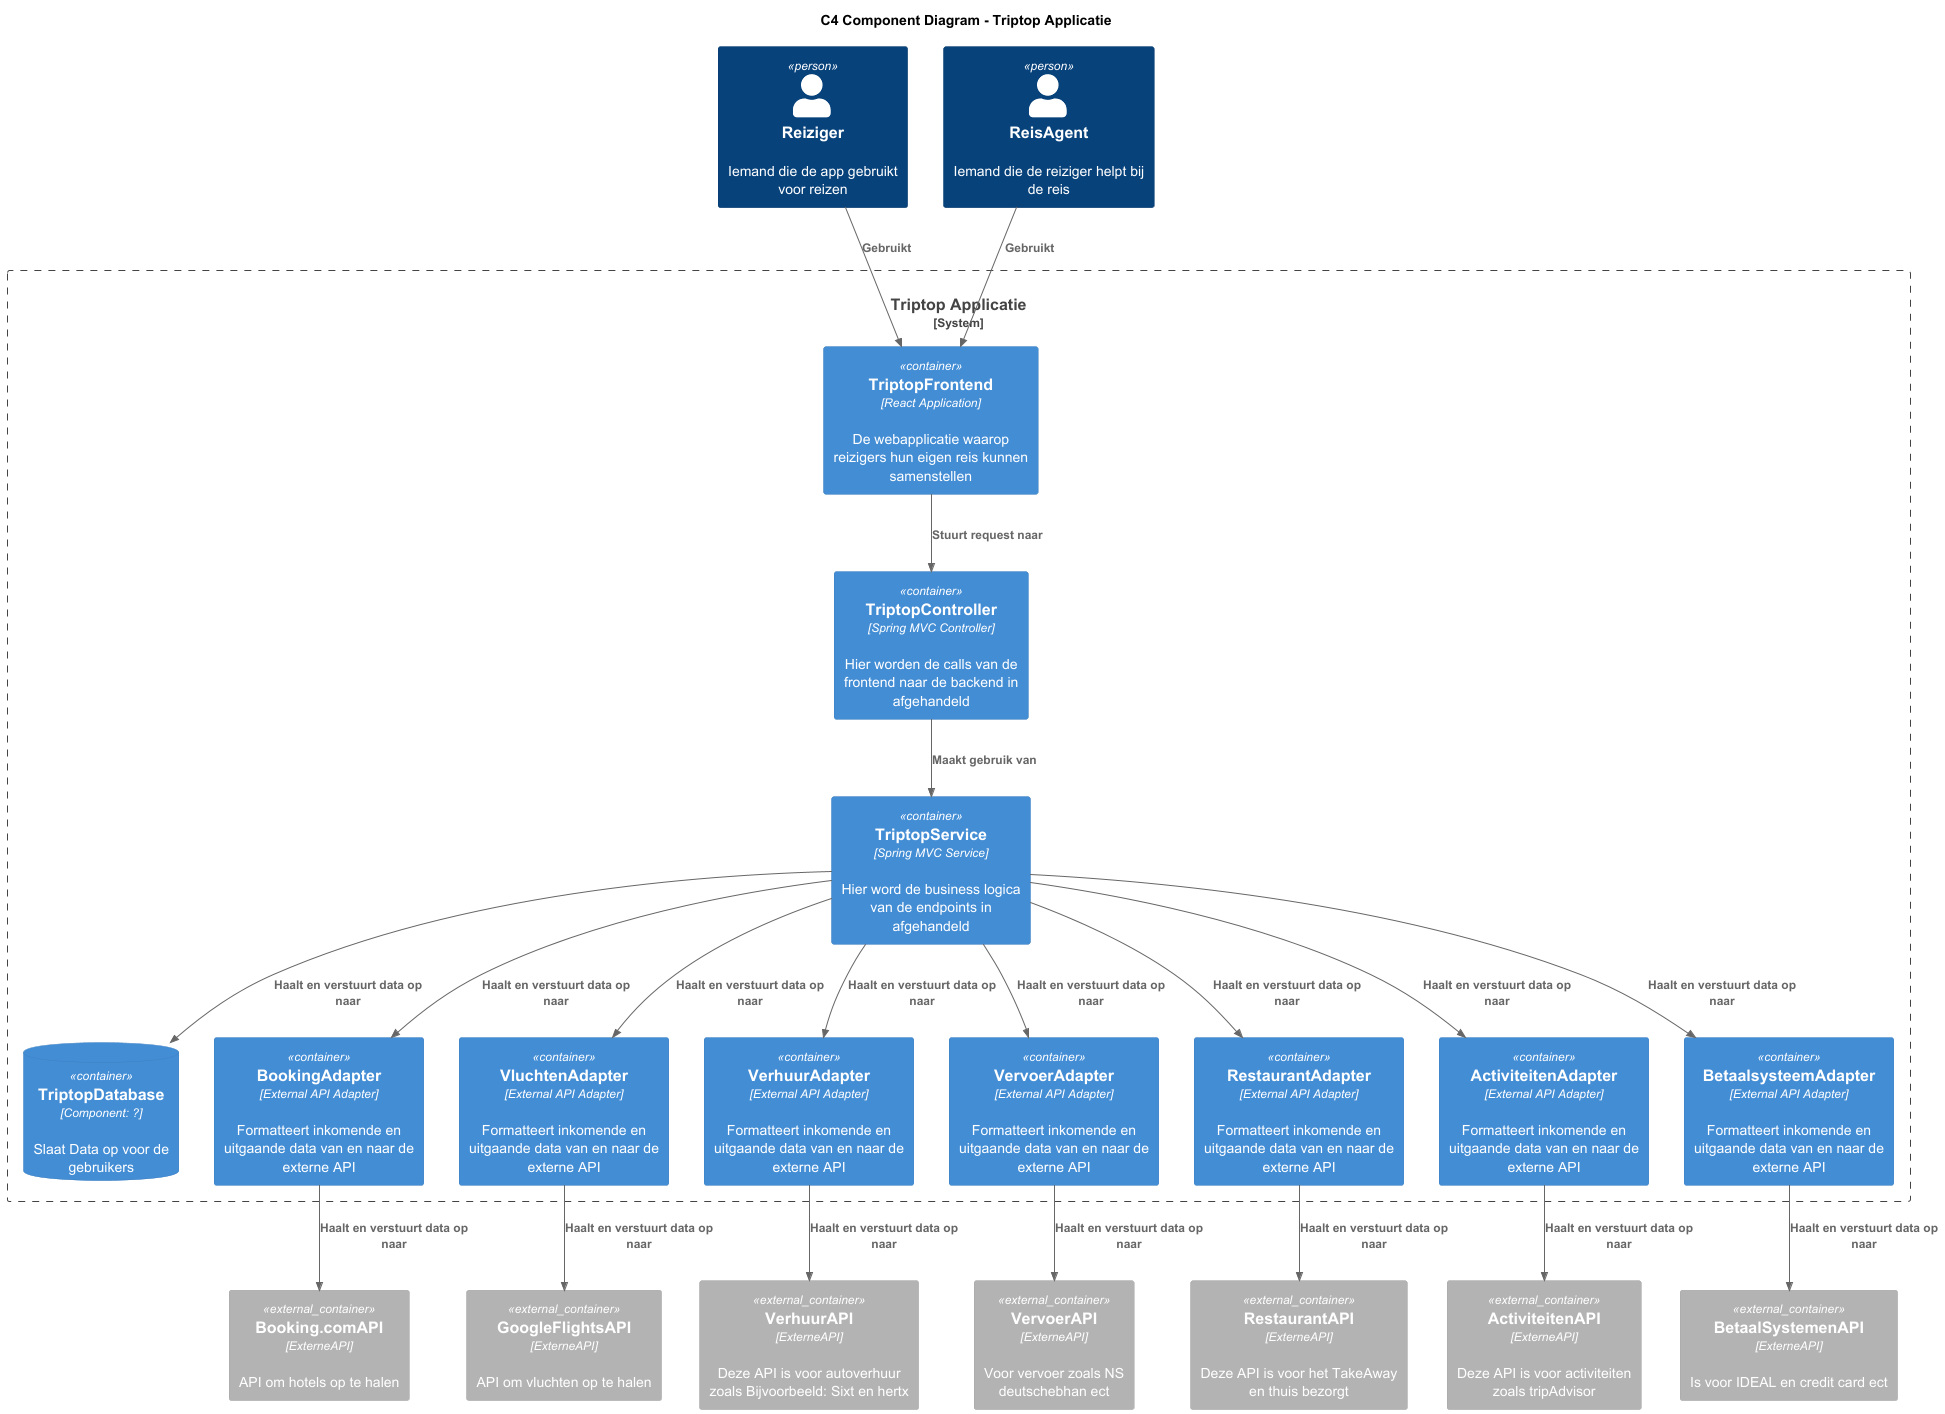
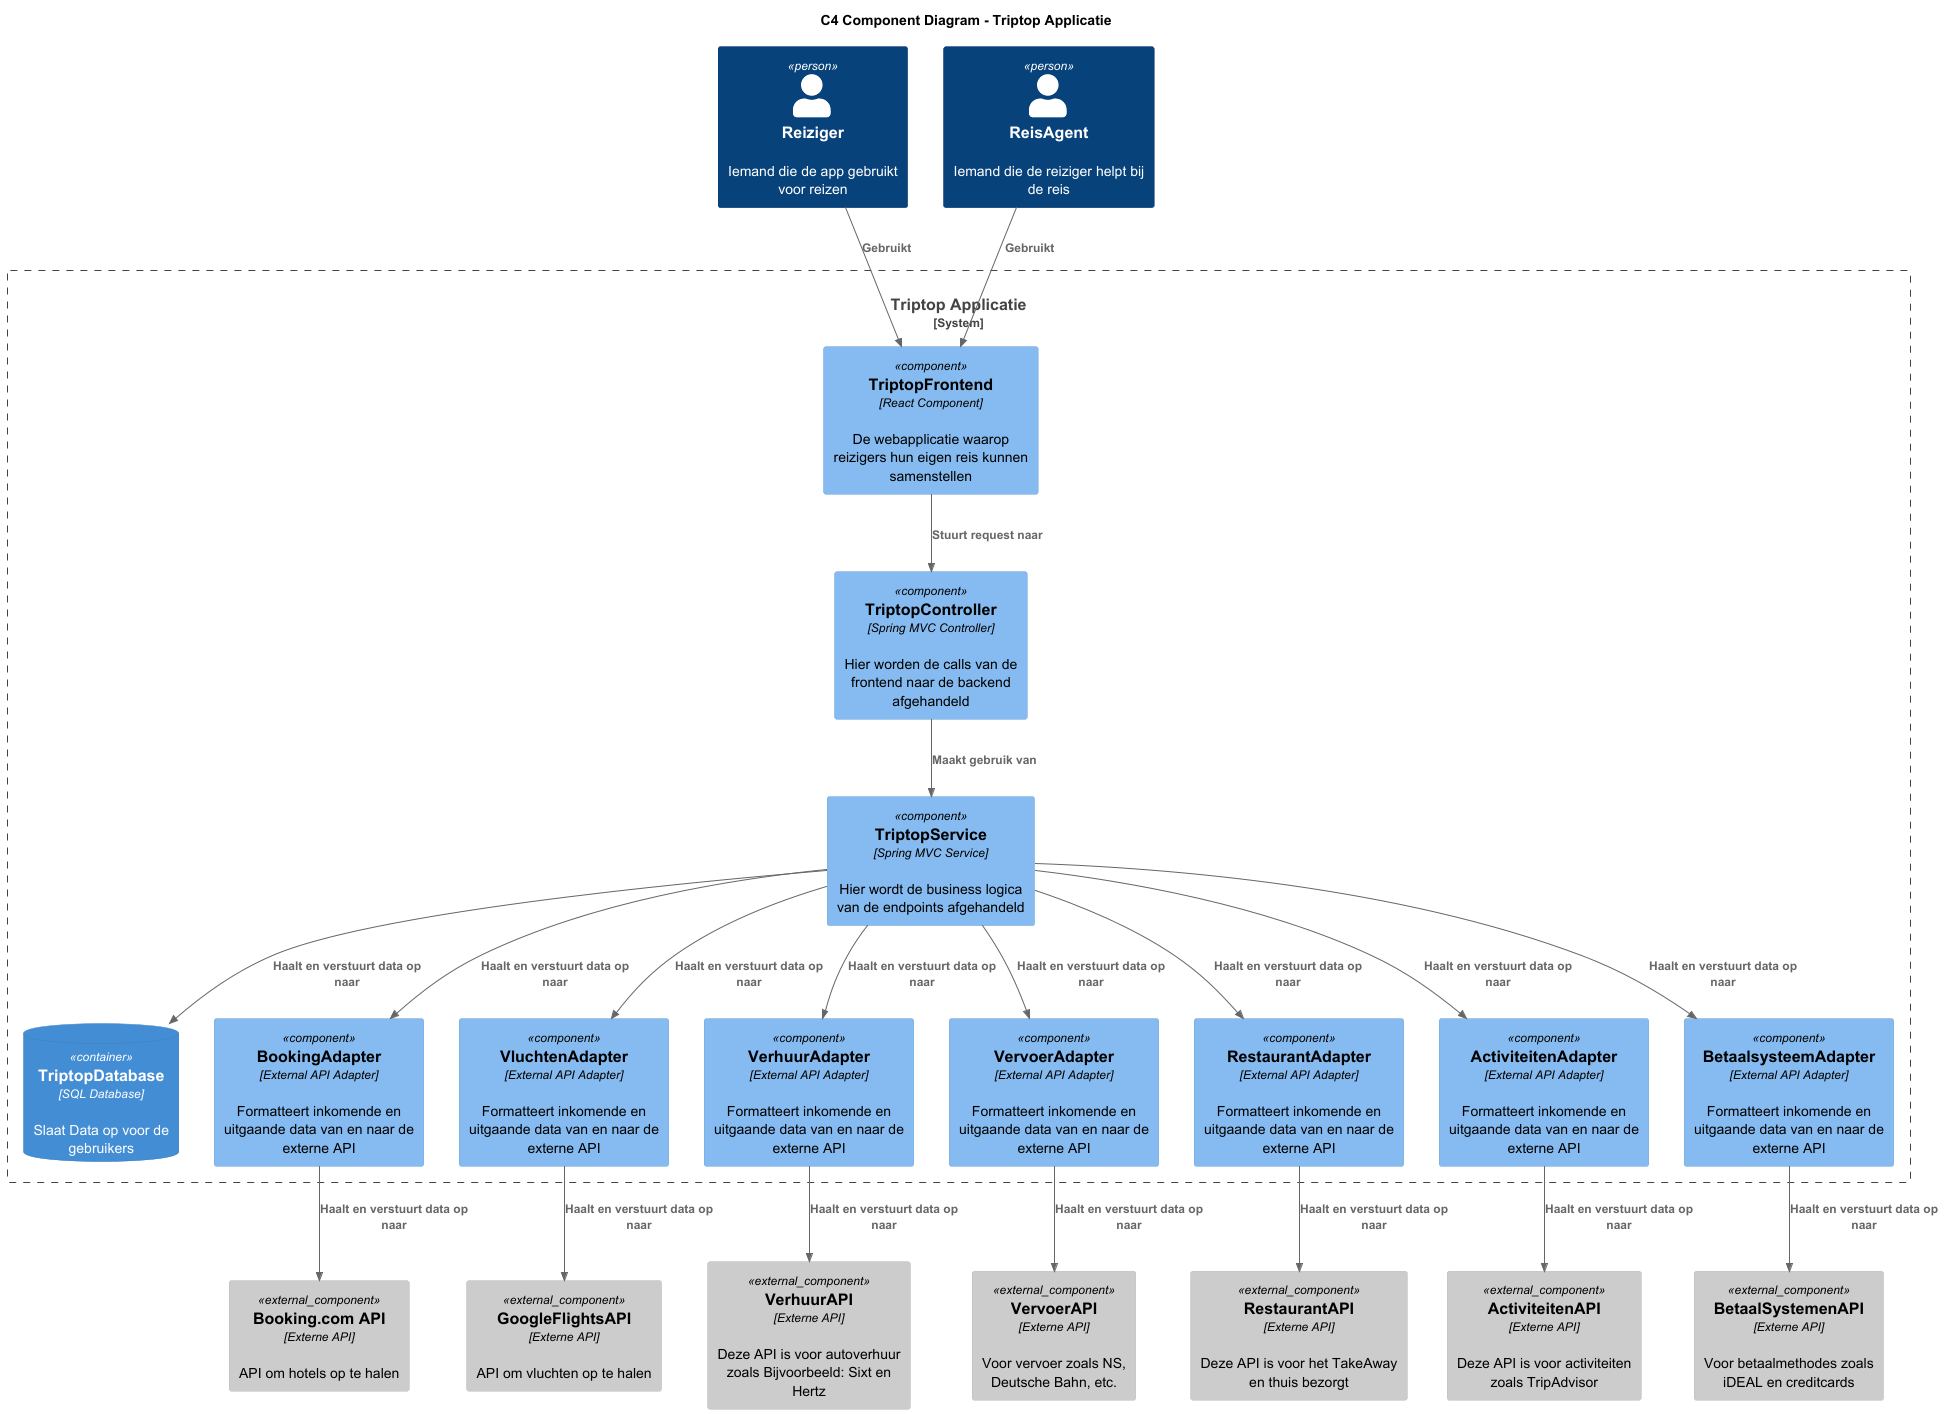
component diagram en classe diagram aangepast

Changed region(s): [[0.0, 0.5601, 1.0, 1.0], [0.401, 0.2178, 0.5553, 0.3734], [0.4319, 0.4045, 0.5553, 0.529]]

diff --git a/software-guidebook/README.md b/software-guidebook/README.md
@@ -97,15 +97,21 @@ Dit dynamisch diagram toont de authenticatieflow binnen de Triptop applicatie (z
 _Afbeelding 9: Dynamisch diagram authenticeren._
 
 #### 7.3.2. Hoe zorg je ervoor dat je bij een wijziging in de datastructuur van een externe service niet de hele applicatie hoeft aan te passen? (Jamiro)
-Voor deze onderzoeksvraag hebben wij een Component diagram gemaakt. Om de onderzoeksvraag te beantwoorden hebben wij ervoor gekozen om het adapter pattern te volgen.
+Voor deze onderzoeksvraag hebben wij een Component diagram gemaakt. 
+Om de onderzoeksvraag te beantwoorden hebben wij ervoor gekozen om het adapter pattern te volgen.
+En Het design principe "Program to an interface".
 
 Het "Adapter pattern" houdt in dat er een "Adapter"-klasse is die tussen een externe service en de hoofdlogica van de applicatie zit.
 Deze klasse formateert de data die naar de externe service wordt doorgestuurd, maar ook de data die wij opvragen van de externe service. 
 Als de externe service iets verandert met de data die ze opsturen, of de data die ze opgestuurd willen krijgen. Kan je dit afvangen in de "Adapter"-klasse
-
-
 Verdere uitleg voor waarom wij voor het "Adapter pattern" hebben gekozen wordt behandeld in 
 [ADR-004](#84-adr-004-voor-exterene-apis-gebruiken-wij-de-adapter-pattern-)
+
+Het design principe "Program to an interface" houd in dat de code alleen weet van de interface van een component,
+en niet van de specifieke implementatie ervan.
+Dit houd in dat je niet een implementatie van een object aanroept maar een interface.
+Verdere uitleg voor waarom wij voor het design principe "Program to an interface" hebben gekozen wordt behandeld in
+[ADR-008](#88-adr-008-wij-gaan-het-desing-principe-program-to-an-interface-toepassen)
 
 ##### Component diagram
 ![Component Diagram Adapter pattern](/opdracht-diagrammen/C4-Diagrammen/ComponentDiagramJamiro.png)
@@ -135,6 +141,7 @@ _Afbeelding 12: Sequence diagram authenticeren._
 ##### Klasse diagram
 Voor deze onderzoeksvraag hebben wij een klassen diagram gemaakt met de adapter pattern. 
 De reden hiervoor is dat als een API veranderingen maakt, dat je alleen de adapter hoeft aantepassen in plaats van de gehele applicatie.
+Stel de API veranderd of je wilt een hele andere API gebruiken hoef je alleen de logica van de methodes in de adapter klasse aan te passen.
 
 ![Klasse Diagram Adapter](/opdracht-diagrammen/C4-Diagrammen/C4-Class-Diagram-Jamiro-Triptop.png)
 _Afbeelding 13: Klasse diagram adapter pattern._
@@ -457,6 +464,21 @@ Neutraal
 ##### Negatief
 - Mogelijk langzamere prestaties door de extra communicatielaag.
 - Meer onderhoud nodig voor de backend code die de communicatie afhandelt.
+
+### 8.8. ADR-008 Wij gaan het desing principe "Program to an interface" toepassen
+#### Status
+Voorgesteld
+
+#### Context
+
+#### Overwogen opties
+
+#### Besluit
+
+#### Consequenties
+
+##### Negatief
+
 
 ## 9. Deployment, Operation and Support
 > [!TIP]

diff --git a/feedback/feedback-week2.md b/feedback/feedback-week2.md
@@ -18,8 +18,9 @@
 - [ ] Noem concreet wat gebruikerslogica is (in UserService) (Taha)
 - [ ] Formulering in ADR is erg kort.. Niet helemaal duidelijk wat je met extra laag bedoelt, ten opzichte van wat? De twee lagen zijn er toch sowieso al (in dit geval eigenlijk tiers ipv lagen) (Taha)
 - [ ] Ontwerpvraag: Hoe handel je als externe API verandert. Nieuwe versie? (Jamiro)
-- [ ] Je noemt net zoals Mischa je componenten containers. Aanpassen (Jamiro)
-- [ ] Er staat 'Sprint MVC Adapter'. Met sprint o.p.v. Spring. En verder, wat biedt Spring aan qua Adapter dan? (Jamiro)
-- [ ] Volgens mij is dit geen abstractie binnen dit framework. Dus er moet iets anders staan (Jamiro)
+- [x] Je noemt net zoals Mischa je componenten containers. Aanpassen (Jamiro)
+- [x] Er staat 'Sprint MVC Adapter'. Met sprint o.p.v. Spring. En verder, wat biedt Spring aan qua Adapter dan? (Jamiro)
+- [x] Volgens mij is dit geen abstractie binnen dit framework. Dus er moet iets anders staan (Jamiro)
 - [ ] Wat is concrete methode of endpoint name in de BookingAPI? Is BookingAPI een Class? (Jamiro)
 
+- [ ] FACADE PATTERN ADR (TAHA)

diff --git a/TO-DO.md b/TO-DO.md
@@ -17,7 +17,11 @@
 - [ ] bekijk [feedback](./feedback/feedback-week2.md), en kruis alles af wat gedaan is en pas dingen aan indien nodig
 - [ ] mocht er tijd voor zijn, meer apis toevoegen (betekend wel dat we dus die ook moeten testen en diagrammen moeten aanpassen)
 - [ ] loop de rubric-soex (exel bestand) langs om te kijken of we overal aan voldoen
-
+- [ ] Design principes toepassen en iedereen 1 benoemen
+- [ ] Context diagram na lopen op externe systemen
+- [ ] Component diagram samenvoegen??? vraag eerst na
+- [ ] Class/sequence diagrammen (component uitwerken??? ook navragen)
+- [ ] 
 
 
 
